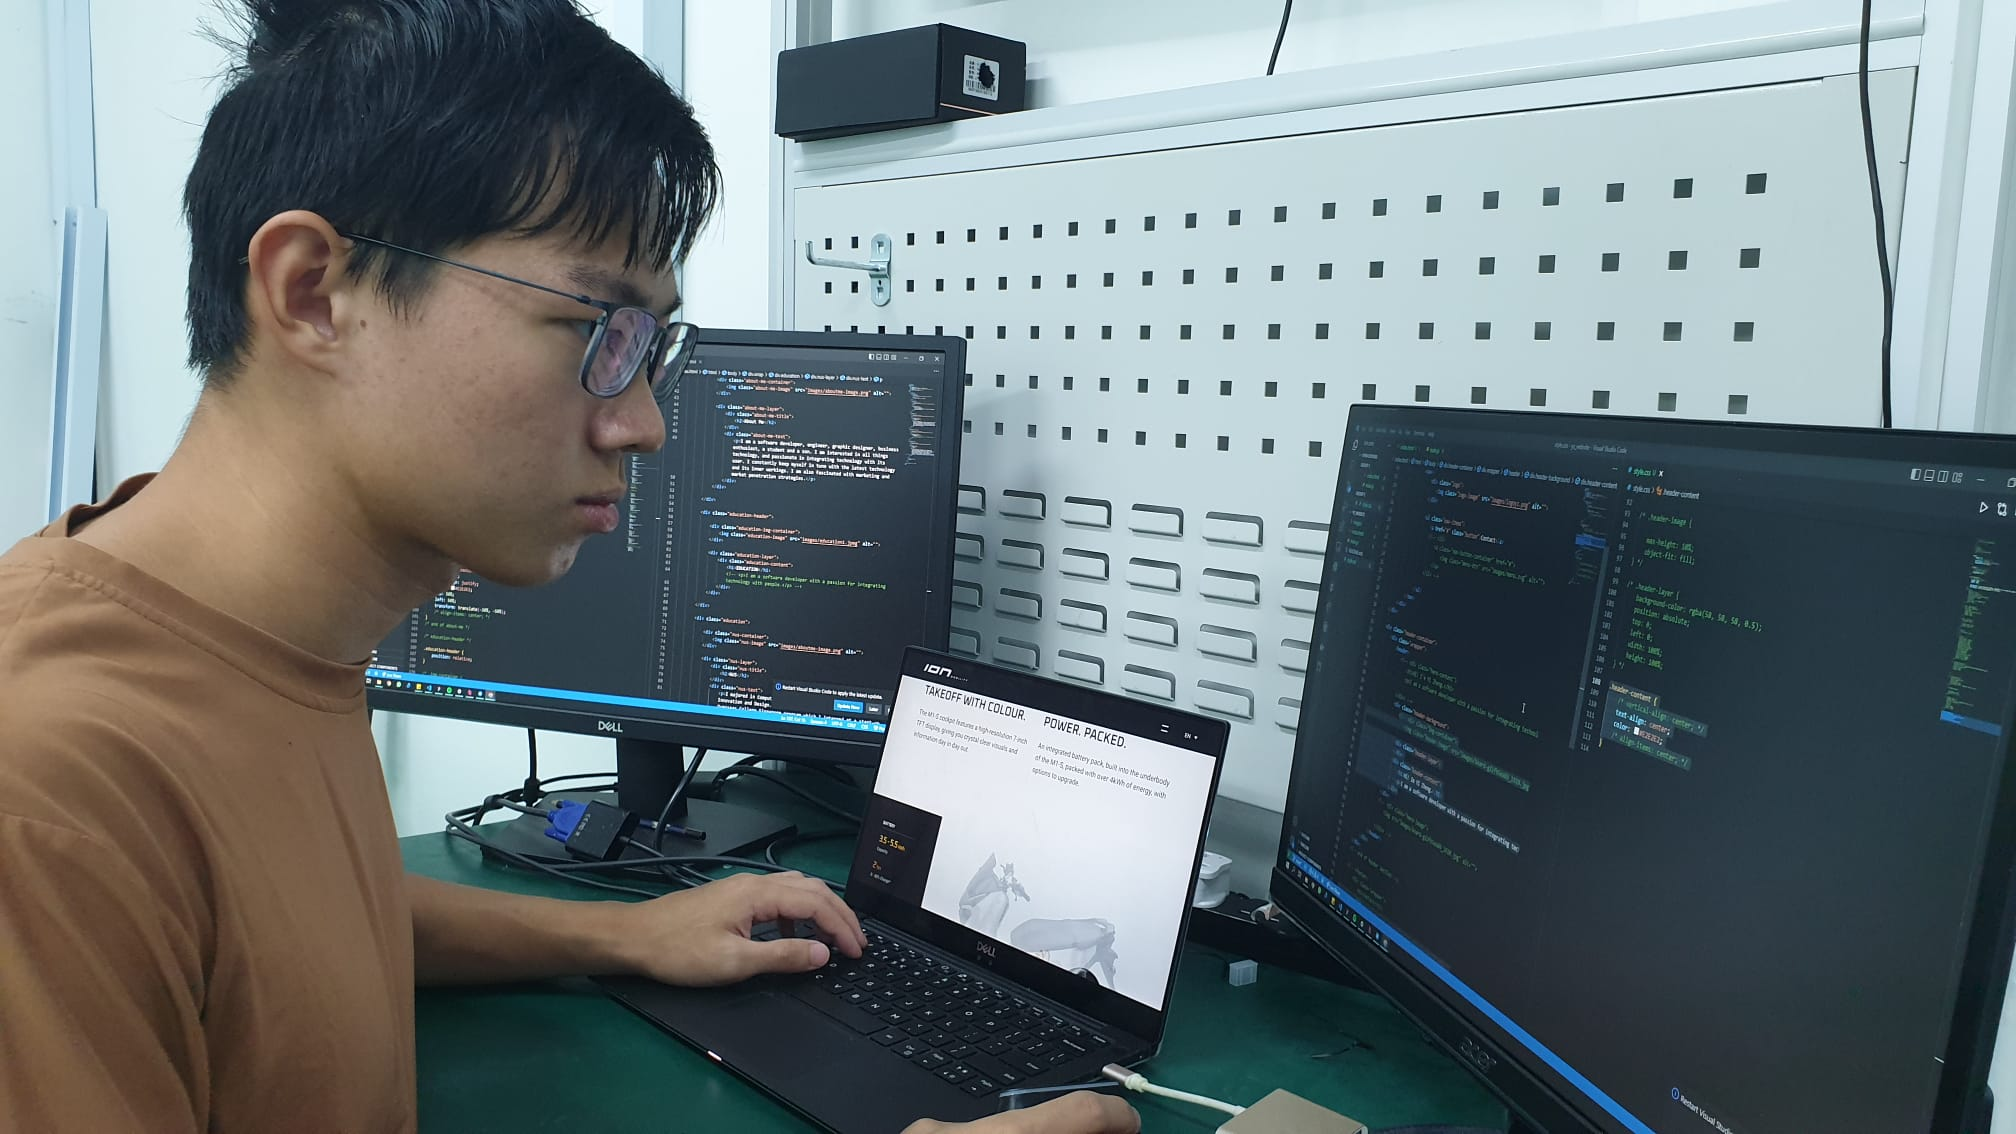
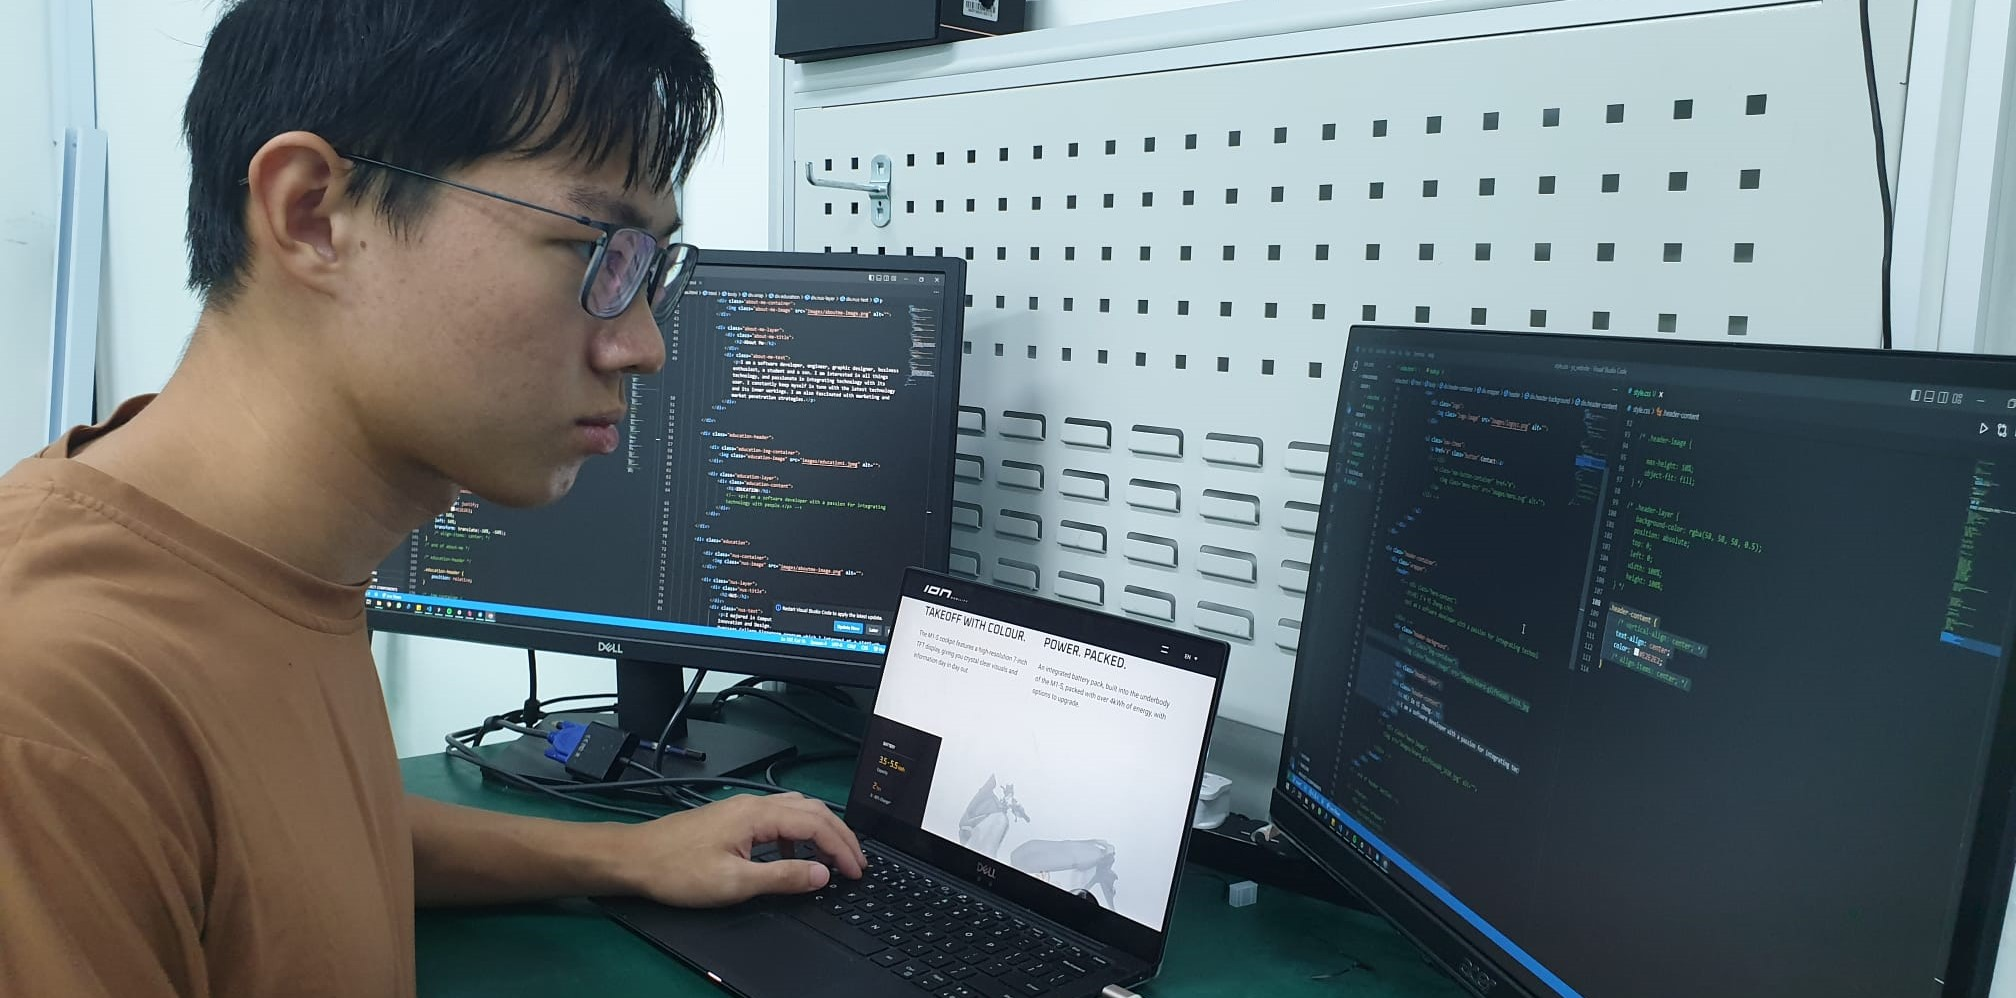
Edited content, cleaned up code, pending fixes for mobile view

diff --git a/index.html b/index.html
@@ -143,10 +143,10 @@
             <div class="toggle-view-container">
                 <div class="toggle-view active">
                     <div class="image-section first-layout">
-                        <img src="images/power.png" alt="Image 1" class="left-segment-image">
+                        <img src="images/pm2.jpg" alt="Image 1" class="left-segment-image">
                         <div class="image-column">
-                            <img src="images/nus1.jpg" alt="Image 2" class="right-segment-image">
-                            <img src="images/nus3.jpg" alt="Image 3" class="right-segment-image">
+                            <img src="images/pm1.jpg" alt="Image 2" class="right-segment-image">
+                            <img src="images/pm3.jpg" alt="Image 3" class="right-segment-image">
                         </div>
                     </div>
         
@@ -158,10 +158,10 @@
                 </div>
                 <div class="toggle-view">
                     <div class="image-section first-layout">
-                        <img src="images/power1.jpeg" alt="Image 1" class="left-segment-image">
+                        <img src="images/power.jpeg" alt="Image 1" class="left-segment-image">
                         <div class="image-column">
-                            <img src="images/nus1.jpg" alt="Image 2" class="right-segment-image">
-                            <img src="images/nus3.jpg" alt="Image 3" class="right-segment-image">
+                            <img src="images/pe2.jpg" alt="Image 2" class="right-segment-image">
+                            <img src="images/pe3.jpg" alt="Image 3" class="right-segment-image">
                         </div>
                     </div>
         
@@ -173,10 +173,10 @@
                 </div>
                 <div class="toggle-view">
                     <div class="image-section second-layout">
-                        <img src="images/np1.jpg" alt="Image 1" class="top-image">
+                        <img src="images/software.jpeg" alt="Image 1" class="top-image">
                         <div class="bottom-images">
-                            <img src="images/np2.png" alt="Image 2" class="bottom-left">
-                            <img src="images/np3.png" alt="Image 3" class="bottom-right">
+                            <img src="images/sw1.jpg" alt="Image 2" class="bottom-left">
+                            <img src="images/sw2.jpg" alt="Image 3" class="bottom-right">
                         </div>
                     </div>
         
@@ -190,10 +190,10 @@
                 </div>
                 <div class="toggle-view">
                     <div class="image-section first-layout">
-                        <img src="images/nus2.jpg" alt="Image 1" class="left-segment-image">
+                        <img src="" alt="Image 1" class="left-segment-image">
                         <div class="image-column">
-                            <img src="images/nus1.jpg" alt="Image 2" class="right-segment-image">
-                            <img src="images/nus3.jpg" alt="Image 3" class="right-segment-image">
+                            <img src="" alt="Image 2" class="right-segment-image">
+                            <img src="" alt="Image 3" class="right-segment-image">
                         </div>
                     </div>
         
@@ -268,11 +268,11 @@
         <section class="section section-10">
             <div class="toggle-view-container">
                 <div class="toggle-view active">
-                    <div class="image-section first-layout">
-                        <img src="images/power.png" alt="Image 1" class="left-segment-image">
-                        <div class="image-column">
-                            <img src="images/currentplex.png" alt="Image 2" class="right-segment-image">
-                            <img src="images/nus3.jpg" alt="Image 3" class="right-segment-image">
+                    <div class="image-section second-layout">
+                        <img src="images/currentplex1.jpg" alt="Image 1" class="top-image">
+                        <div class="bottom-images">
+                            <img src="images/cp2.jpg" alt="Image 2" class="bottom-left">
+                            <img src="images/cp3.jpg" alt="Image 3" class="bottom-right">
                         </div>
                     </div>
         
@@ -303,27 +303,10 @@
                     </div> 
                 </div>
                 <div class="toggle-view">
-                    <div class="image-section second-layout">
-                        <img src="images/np1.jpg" alt="Image 1" class="top-image">
-                        <div class="bottom-images">
-                            <img src="images/np2.png" alt="Image 2" class="bottom-left">
-                            <img src="images/np3.png" alt="Image 3" class="bottom-right">
-                        </div>
-                    </div>
-        
-                    <div class="text-section">
-                        <h2>Software Intern</h2>
-                        <p>I started at ION Mobility as a Software Intern, and my first task was to develop a system to test state and operations of the electric motorcycle’s Vehicle Control Unit (VCU). To achieve this I utilized a micro-controller and developed code to run both systematic and randomized inputs to test the VCU’s firmware under various conditions to ensure the robustness of the firmware integrated with the circuit board. I worked with CI/CD to enable a fully automated workflow from deployment to testing.
-                            Next, I supported my colleague to develop a test-harness for state-flow level testing on MATLAB, Simulink.
-                            Subsequently, I worked on developing features on the various controllers on the VCU on the S32K platform, Bluetooth and Wi-Fi chips for LED indicators, mobile connection, and Over the Air programming functionality respectively.
-                            Finally, I worked on developing the company’s website at a full-stack level interfacing with AWS then GCP for hosting the website and media reference, and Supabase for user-information.</p>
-                    </div>
-                </div>
-                <div class="toggle-view">
                     <div class="image-section first-layout">
                         <img src="images/aw1.jpg" alt="Image 1" class="left-segment-image">
                         <div class="image-column">
-                            <img src="images/nus1.jpg" alt="Image 2" class="right-segment-image">
+                            <img src="images/np2.png" alt="Image 2" class="right-segment-image">
                             <img src="images/nus3.jpg" alt="Image 3" class="right-segment-image">
                         </div>
                     </div>
@@ -334,7 +317,25 @@
                             I primarily designed the attachments for various components such as indicators, LiDAR, Control box, display mount and other proximity sensors. I also developed the server based asset monitoring system to manage the use of the autonomous wheelchairs in a hospital. Additionally, I developed the control logic for the sensors and indicators, and developed the user interface.</p>
                     </div> 
                 </div>
+                <div class="toggle-view">
+                    <div class="image-section second-layout">
+                        <img src="images/op1.jpg" alt="Image 1" class="top-image">
+                        <div class="bottom-images">
+                            <img src="images/op2.jpg" alt="Image 2" class="bottom-left">
+                            <img src="images/op3.jpg" alt="Image 3" class="bottom-right">
+                        </div>
+                    </div>
+        
+                    <div class="text-section">
+                        <h2>Other Projects</h2>
+                        <p>I started at ION Mobility as a Software Intern, and my first task was to develop a system to test state and operations of the electric motorcycle’s Vehicle Control Unit (VCU). To achieve this I utilized a micro-controller and developed code to run both systematic and randomized inputs to test the VCU’s firmware under various conditions to ensure the robustness of the firmware integrated with the circuit board. I worked with CI/CD to enable a fully automated workflow from deployment to testing.
+                            Next, I supported my colleague to develop a test-harness for state-flow level testing on MATLAB, Simulink.
+                            Subsequently, I worked on developing features on the various controllers on the VCU on the S32K platform, Bluetooth and Wi-Fi chips for LED indicators, mobile connection, and Over the Air programming functionality respectively.
+                            Finally, I worked on developing the company’s website at a full-stack level interfacing with AWS then GCP for hosting the website and media reference, and Supabase for user-information.</p>
+                    </div>
+                </div>
             </div>
+            
             <div class="dots">
               <span class="dot active"></span>
               <span class="dot"></span>
@@ -366,12 +367,12 @@
                 <p>My love for engineering started as I took apart a laptop, seeing how every component is put together. Unfortunately I could not reassemble the laptop. Later I started to take apart and fix desktops, laptops, mobile phones, monitors, various home appliances, and even a motorcycle internal combustion engine!</p>
             </div>
             <div class="grid-box">
-                <img src="https://via.placeholder.com/200" alt="Box 2 Image" class="grid-box-image">
-                <h3>Sports</h3>
-                <p>I have always enjoyed playing basketball with my friends in polytechnic, with my work colleagues and neighbors. I was never really great at it but that was a bonding opportunity as my friends would talk about basketball, teach me drills and help me improve on the sport, and finally have an interest which is common with most people.</p>
+                <img src="images/interest2.jpg" alt="Box 2 Image" class="grid-box-image">
+                <h3>Motorcycles</h3>
+                <p>I have always enjoyed riding motorcycles. At first, it was a cool means of transport. Later, I experienced a culture with motorcycles seeing communities built around the love for such machines, trying different bikes for various activities and sports. My favourite is dirt biking.</p>
             </div>
             <div class="grid-box">
-                <img src="https://via.placeholder.com/200" alt="Box 3 Image" class="grid-box-image">
+                <img src="images/interest3.jpg" alt="Box 3 Image" class="grid-box-image">
                 <h3>Videography/ editing</h3>
                 <p>I recorded and made my first video in the military, and then I realized how exciting it was and took up every opportunity to make videos for my school development projects and compiled videos for non-academic school activities and organizations.</p>
                 <a href="https://www.youtube.com/@thaddyshome7030">Yi Zheng`s YouTube Channel</a>
